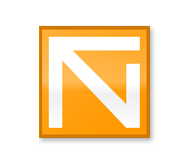
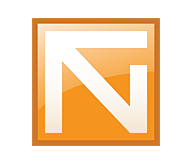
- Project template improvements for FD4 - Shortcut manager improvements for FD4

diff --git a/FD4/FlashDevelop/Bin/Debug/Docs/styles.css b/FD4/FlashDevelop/Bin/Debug/Docs/styles.css
@@ -38,7 +38,7 @@ a:hover
 #header h3 
 {
 	font-size: 20pt;
-	color: orange;
+	color: #ef9a28;
 }
 #header h3 img
 {

diff --git a/FD4/FlashDevelop/Managers/ShortcutManager.cs b/FD4/FlashDevelop/Managers/ShortcutManager.cs
@@ -16,9 +16,18 @@ namespace FlashDevelop.Managers
         /// <summary>
         /// Registers a shortcut item
         /// </summary>
-        public static void RegisterItem(String key, String location, ToolStripMenuItem item)
+        public static void RegisterItem(String key, Keys keys)
         {
-            ShortcutItem registered = new ShortcutItem(key, location, item);
+            ShortcutItem registered = new ShortcutItem(key, keys);
+            RegistedItems.Add(registered);
+        }
+
+        /// <summary>
+        /// Registers a shortcut item
+        /// </summary>
+        public static void RegisterItem(String key, ToolStripMenuItem item)
+        {
+            ShortcutItem registered = new ShortcutItem(key, item);
             RegistedItems.Add(registered);
         }
 
@@ -29,9 +38,13 @@ namespace FlashDevelop.Managers
         {
             foreach (ShortcutItem item in RegistedItems)
             {
-                DataEvent de = new DataEvent(EventType.Shortcut, item.Key, item.Item.ShortcutKeys);
-                EventManager.DispatchEvent(Globals.MainForm, de); // Ask from plugins...
-                if (de.Handled) item.Item.ShortcutKeys = (Keys)de.Data;
+                if (item.Default == item.Custom) return;
+                if (item.Item == null) // Tell plugins to apply...
+                {
+                    DataEvent de = new DataEvent(EventType.Shortcut, item.Id, item.Custom);
+                    EventManager.DispatchEvent(Globals.MainForm, de);
+                }
+                else item.Item.ShortcutKeys = item.Custom;
             }
             UpdateAllShortcuts();
         }
@@ -47,6 +60,28 @@ namespace FlashDevelop.Managers
                 keys.Add(item.Item.ShortcutKeys);
             }
             return AllShortcuts = keys;
+        }
+
+    }
+
+    public class ShortcutItem
+    {
+        public Keys Custom = Keys.None;
+        public Keys Default = Keys.None;
+        public ToolStripMenuItem Item = null;
+        public String Id = String.Empty;
+
+        public ShortcutItem(String id, Keys keys)
+        {
+            this.Id = id;
+            this.Default = keys;
+        }
+
+        public ShortcutItem(String id, ToolStripMenuItem item)
+        {
+            this.Id = id;
+            this.Item = item;
+            this.Default = item.ShortcutKeys;
         }
 
     }

diff --git a/FD4/PluginCore/PluginCore/Interfaces.cs b/FD4/PluginCore/PluginCore/Interfaces.cs
@@ -96,7 +96,8 @@ namespace PluginCore
         void ShowErrorDialog(Object sender, Exception ex);
         void ShowSettingsDialog(String itemName, String filter);
         void AutoUpdateMenuItem(ToolStripItem item, String action);
-        void RegisterShortcutItem(String key, ToolStripMenuItem item);
+        void RegisterShortcutItem(String id, Keys keys);
+        void RegisterShortcutItem(String id, ToolStripMenuItem item);
         void FileFromTemplate(String templatePath, String newFilePath);
         DockContent OpenEditableDocument(String file, Boolean restoreFileState);
         DockContent OpenEditableDocument(String file);
@@ -105,7 +106,6 @@ namespace PluginCore
 		DockContent CreateDockablePanel(Control form, String guid, Image image, DockState defaultDockState);
         Boolean CallCommand(String command, String arguments);
         List<ToolStripItem> FindMenuItemsByName(String name);
-        List<ShortcutItem> GetRegisteredShortcutItems();
         List<ToolStripItem> GetCurrentMenuItems();
         ToolStripItem FindMenuItem(String name);
         String ProcessArgString(String args);
@@ -288,7 +288,7 @@ namespace PluginCore
     }
 
     #region Structs And Classes
-    
+
     public class ItemData
     {
         public String Id = String.Empty;
@@ -300,21 +300,6 @@ namespace PluginCore
             if (id != null) this.Id = id;
             if (tag != null) this.Tag = tag;
             if (flags != null) this.Flags = flags;
-        }
-
-    }
-
-    public class ShortcutItem
-    {
-        public String Key = String.Empty;
-        public String Location = String.Empty;
-        public ToolStripMenuItem Item = null;
-
-        public ShortcutItem(String key, String location, ToolStripMenuItem Item)
-        {
-            this.Key = key;
-            this.Item = Item;
-            this.Location = location;
         }
 
     }

diff --git a/FD4/FlashDevelop/MainForm.cs b/FD4/FlashDevelop/MainForm.cs
@@ -1414,18 +1414,17 @@ namespace FlashDevelop
         /// <summary>
         /// Registers a new menu item with the shortcut manager
         /// </summary>
-        public void RegisterShortcutItem(String key,  ToolStripMenuItem item)
+        public void RegisterShortcutItem(String id, Keys keys)
         {
-            String location = Assembly.GetCallingAssembly().GetName().Name;
-            ShortcutManager.RegisterItem(key, location, item);
+            ShortcutManager.RegisterItem(id, keys);
         }
 
         /// <summary>
         /// Registers a new menu item with the shortcut manager
         /// </summary>
-        public List<ShortcutItem> GetRegisteredShortcutItems()
+        public void RegisterShortcutItem(String id, ToolStripMenuItem item)
         {
-            return ShortcutManager.RegistedItems;
+            ShortcutManager.RegisterItem(id, item);
         }
 
         /// <summary>
